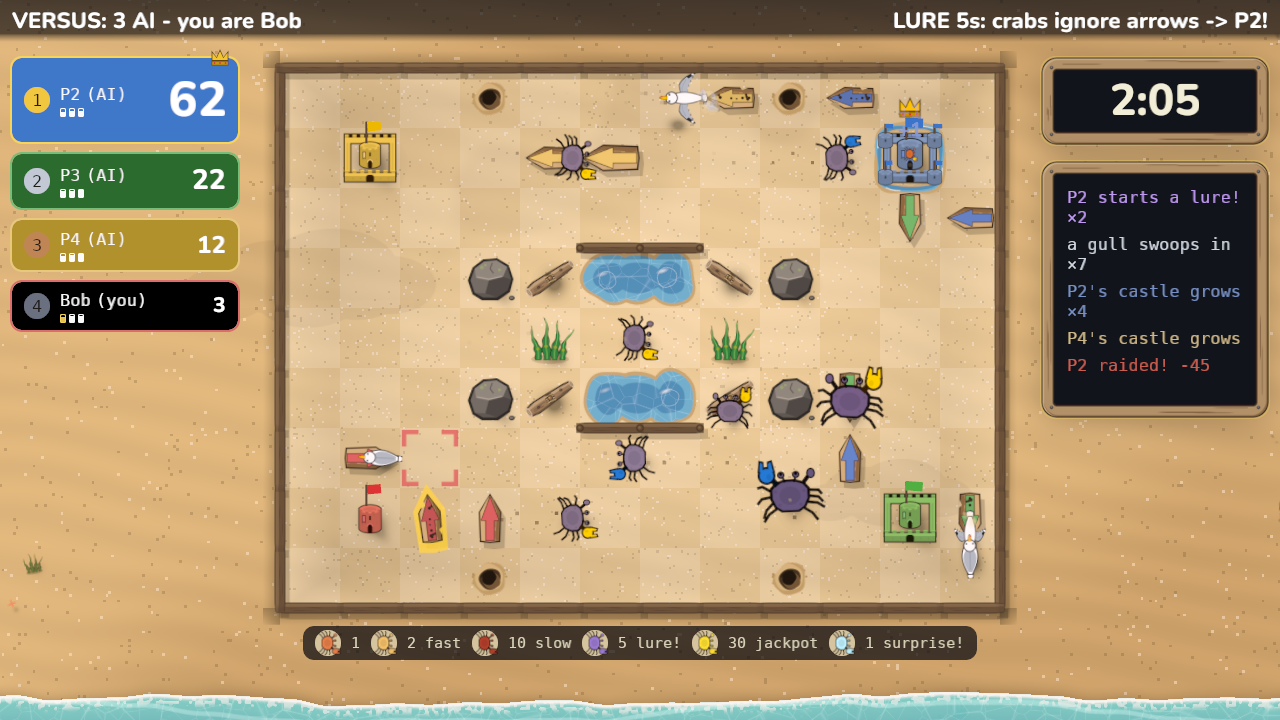
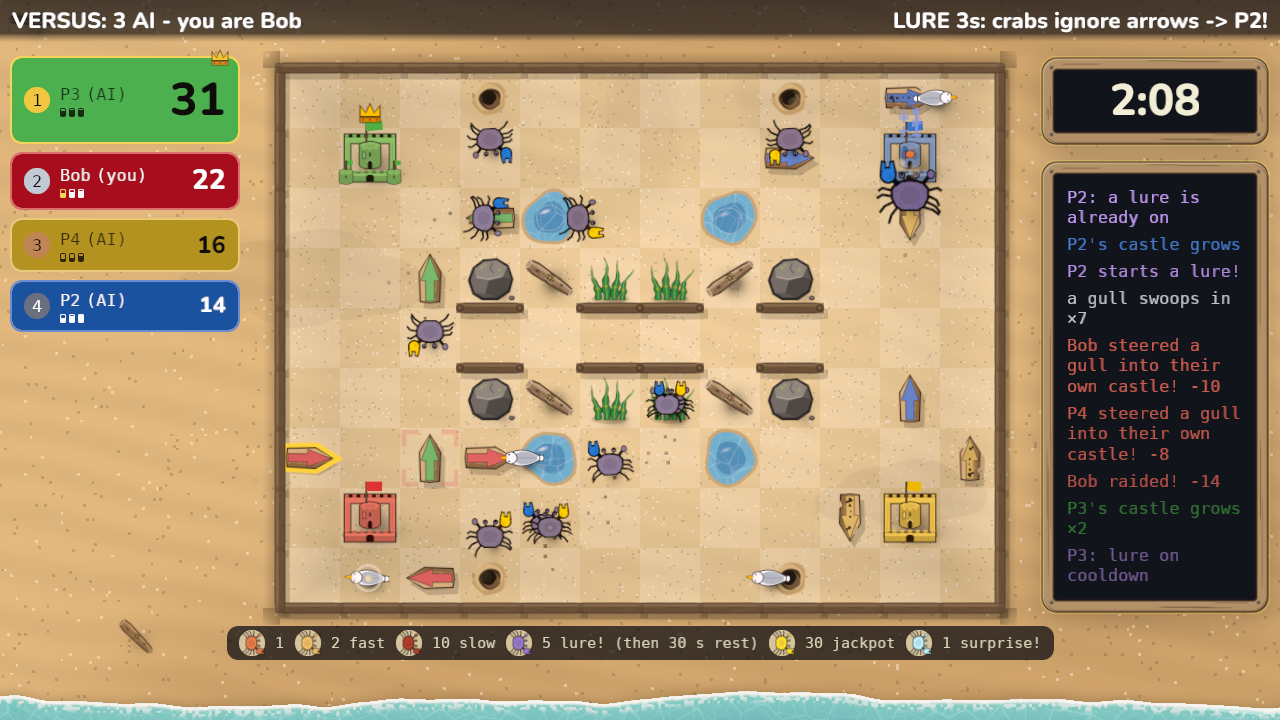
Retake the README and landing-page screenshots
The feed card's event countdown, the co-op shelf on the stage list and
the lobby's map picked at start are all in the pictures now. The page
said a lure lasts ten seconds; it lasts five.

Claude-Session: https://claude.ai/code/session_01MAi7UjXPfWMYfhXJM49k23

diff --git a/site/index.html b/site/index.html
@@ -184,7 +184,7 @@ Waiting for 1 bot. Start it with:
   <figure>
     <img src="media/lure.webp" width="1280" height="720" loading="lazy"
          alt="Every loose crab on the beach taking one player's colour and running for their castle">
-    <figcaption>Score a molting crab and every loose crab runs to you for ten seconds.</figcaption>
+    <figcaption>Score a molting crab and every loose crab runs to you for five seconds.</figcaption>
   </figure>
   <figure>
     <img src="media/old_mill.webp" width="1280" height="720" loading="lazy"
